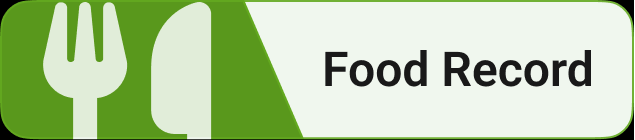
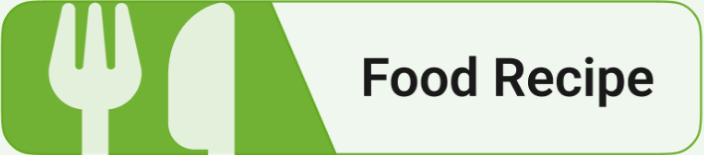
added auto reload userMoments user side, revised button food recipe

diff --git a/src/report.html b/src/report.html
@@ -137,7 +137,7 @@
       </div>
     </div>
   </div>
-  
+  <!-- old delete modal -->
   <div class="modal fade show" id="confirmDeleteModal" tabindex="-1" style="background: rgba(0, 0, 0, 0.5);">
     <div class="modal-dialog" role="document"
       style="width: 40vw; height: 40vh; max-width: 100%; position: fixed; top: 50%; left: 50%; transform: translate(-50%, -50%);">
@@ -155,11 +155,32 @@
         <div class="modal-footer">
           <button type="button" id="confirmDeleteCancelBtn" class="btn btn-secondary" data-dismiss="modal">Cancel</button>
           <button type="button" id="confirmDeleteBtn"class="btn btn-danger deleteBtnFinal">Delete</button>
-
         </div>
       </div>
     </div>
   </div>
+
+<!-- new delete modal -->
+  <!-- <div class="modal fade" id="confirmDeleteModal" tabindex="-1" aria-labelledby="exampleModalLabel" aria-hidden="true">
+    <div class="modal-dialog modal-dialog-centered modal-lg">
+      <div class="modal-content">
+        <div class="modal-header">
+          <h1 class="modal-title fs-5" id="exampleModalLabel">Confirm Delete?</h1>
+          <button type="button" id="closeConfirmDeleteBtn" class="modalCloseBtn">
+            <span aria-hidden="true">&times;</span>
+          </button>
+        </div>
+        <div class="modal-body">
+          ...
+        </div>
+        <div class="modal-footer">
+          <button type="button" id="confirmDeleteCancelBtn" class="btn btn-secondary" data-dismiss="modal">Cancel</button>
+          <button type="button" id="confirmDeleteBtn"class="btn btn-danger deleteBtnFinal">Delete</button>
+        </div>
+      </div>
+    </div>
+  </div> -->
+
 
   <div class="modal fade show" id="confirmUnflagModal" tabindex="-1" style="background: rgba(0, 0, 0, 0.5);">
     <div class="modal-dialog" role="document"

diff --git a/src/js/userMoments.js b/src/js/userMoments.js
@@ -464,6 +464,9 @@ function addDeletePostButtonEventListener() {
     if (deletePostId && deletePostParent) {
       deletePost(deletePostId, deletePostParent);
       toastMessage("Post has been deleted.");
+      setTimeout(function(){
+        window.location.reload();
+      }, 1500);
     }
     deleteConfirmModal.hide(); // Close the modal after deletion
   });
@@ -728,4 +731,7 @@ async function updateCaptionFirebase(docId,caption) {
          caption: caption
   });
   toastMessage("Caption Updated Successfully")
+  setTimeout(function(){
+    window.location.reload();
+  }, 1500);
 }

diff --git a/src/js/adminPortal.js b/src/js/adminPortal.js
@@ -195,7 +195,11 @@ function addResetButtonEventListener() {
     element.addEventListener("click", function (e) {
       console.log(element.dataset.docId);
       resetStrikeCount(element.dataset.docId)
+      confirmResetStreakModal.hide()
       toastMessage("Strikes has been reset");
+      setTimeout(function(){
+        window.location.reload();
+      }, 1500);
     });
   }
 }
